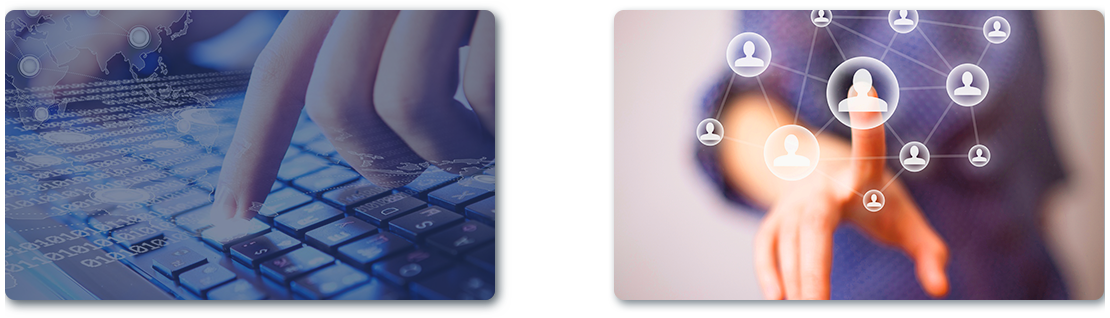
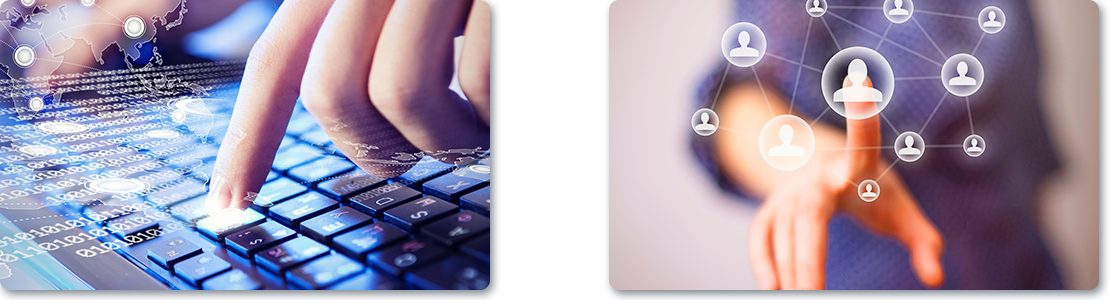
提交代码

diff --git a/信证通/css/index.css b/信证通/css/index.css
@@ -180,81 +180,48 @@ body {
     background: url(../image/businesses.png);
     background-size: 100% 100%;
     left: 50%;
-    width:1110px ;
+    width: 1110px;
     transform: translateX(-50%);
     position: absolute;
     margin-top: 120px;
-    height: 317px;
+    height: 300px;
     position: relative;
 }
 
 .content .business div .businessCon span {
     display: inline-block;
-    width: 420px;
+    width: 490px;
+    height: 290px;
     color: #fff;
     font-size: 16px;
     line-height: 30px;
     letter-spacing: 3px;
-    margin-left: 5px;
-    vertical-align: top;
+    vertical-align: bottom;
+    font-weight: 500;
+    position: absolute;
 }
 
 .content .business div .businessCon span h5 {
     font-size: 22px;
     line-height: 70px;
     margin-bottom: 65px;
+    color: #fff;
+    padding-left: 23px;
+    padding-right: 23px;
+    background: rgba(24, 44, 82, 0.5);
+    text-align: center;
+    margin-top: 220px;
+    border-radius: 3px;
 }
 
 .content .business div .businessCon .spanLeft {
-    position: absolute;
-    display: inline-block;
-    width: 490px;
-    height: 290px;
-    color: #fff;
-    font-size: 16px;
-    margin-top: 10px;
-    font-weight: 500;
-    vertical-align: bottom;
-}
-.content .business div .businessCon .spanLeft h5 {
-    color: #fff;
-    font-size: 22px;
-    /*height: 70px;*/
-    /*padding: 3px;*/
-    /*line-height: 70px;*/
-    padding-left: 23px;
-    padding-right: 23px;
-    background: rgba(24, 44, 82, 0.5);
-    text-align: center;
-    margin-top: 220px;
-    border-radius: 3px;
-}
-.content .business div .businessCon .spanRight {
-    position: absolute;
-    display: inline-block;
-    width: 490px;
-    height: 290px;
-    color: #fff;
-    font-size: 16px;
-    margin-left: 615px;
-    margin-top: 10px;
-    font-weight: 500;
-    vertical-align: bottom;
 }
 
-.content .business div .businessCon .spanRight h5 {
-    color: #fff;
-    font-size: 22px;
-    /*height: 70px;*/
-    /*padding: 3px;*/
-    /*line-height: 70px;*/
-    padding-left: 23px;
-    padding-right: 23px;
-    background: rgba(24, 44, 82, 0.5);
-    text-align: center;
-    margin-top: 220px;
-    border-radius: 3px;
+.content .business div .businessCon .spanRight {
+    margin-left: 610px;
 }
+
+
 .showText {
     display: none;
     padding: 0 20px;

diff --git a/信证通/mobile/index.css b/信证通/mobile/index.css
@@ -172,59 +172,26 @@
 
 .content .business div .businessCon span {
     display: inline-block;
-    width: 40%;
+    width: 44.2%;
     color: #fff;
     font-size: 16px;
     line-height: 25px;
     letter-spacing: 3px;
-    vertical-align: top;
-    margin-top: 1%;
-}
-
-.content .business div .businessCon span h5 {
-    font-size: 22px;
-    margin-top: 10%;
-    margin-bottom: 10%;
+    font-weight: 500;
+    height: 98%;
+    vertical-align: bottom;
+    position: absolute;
+    display: inline-block;
 }
 
 .content .business div .businessCon .spanLeft {
-    position: absolute;
-    display: inline-block;
-    width: 44.5%;
-    height: 92%;
-    color: #fff;
-    margin-left: 0.5%;
-    font-size: 16px;
-    font-weight: 500;
-    vertical-align: bottom;
-}
-
-.content .business div .businessCon .spanLeft h5 {
-    color: #fff;
-    font-size: 22px;
-    height: 50px;
-    line-height: 50px;
-    padding-left: 5%;
-    padding-right: 5%;
-    background: rgba(24, 44, 82, 0.5);
-    text-align: center;
-    margin-top: 46%;
-    border-radius: 3px;
 }
 
 .content .business div .businessCon .spanRight {
-    position: absolute;
-    display: inline-block;
-    width: 44.5%;
-    height: 92%;
-    color: #fff;
-    font-size: 16px;
     margin-left: 55%;
-    font-weight: 500;
-    vertical-align: bottom;
 }
 
-.content .business div .businessCon .spanRight h5 {
+.content .business div .businessCon span h5 {
     color: #fff;
     font-size: 22px;
     height: 50px;
@@ -233,8 +200,10 @@
     padding-right: 5%;
     background: rgba(24, 44, 82, 0.5);
     text-align: center;
-    margin-top: 46%;
+    margin-top: 50%;
     border-radius: 3px;
+    font-size: 22px;
+    margin-bottom: 10%;
 }
 
 .showText {

diff --git a/信证通/js/index.js b/信证通/js/index.js
@@ -44,7 +44,7 @@ $(function () {
         $('.spanRight').css('background', "rgba(24,44,82,0)");
         if (/Android|webOS|iPhone|iPod|BlackBerry/i.test(navigator.userAgent)) {
             var divh = $("#business").height();
-            $('.spanRight h5').animate({'margin-top': divh * 0.431 + 'px'}).css('background', "rgba(24,44,82,0.5)");
+            $('.spanRight h5').animate({'margin-top': divh * 0.461 + 'px'}).css('background', "rgba(24,44,82,0.5)");
         } else {
             $('.spanRight h5').animate({'margin-top':'220px'}).css('background',"rgba(24,44,82,0.5)");
         }
@@ -62,7 +62,7 @@ $(function () {
         $('.spanLeft').css('background', "rgba(24,44,82,0)");
         if (/Android|webOS|iPhone|iPod|BlackBerry/i.test(navigator.userAgent)) {
             var divh = $("#business").height();
-            $('.spanLeft h5').animate({'margin-top': divh * 0.431 + 'px'}).css('background', "rgba(24,44,82,0.5)");
+            $('.spanLeft h5').animate({'margin-top': divh * 0.461 + 'px'}).css('background', "rgba(24,44,82,0.5)");
         } else {
             $('.spanLeft h5').animate({'margin-top':'220px'}).css('background',"rgba(24,44,82,0.5)");
         }
